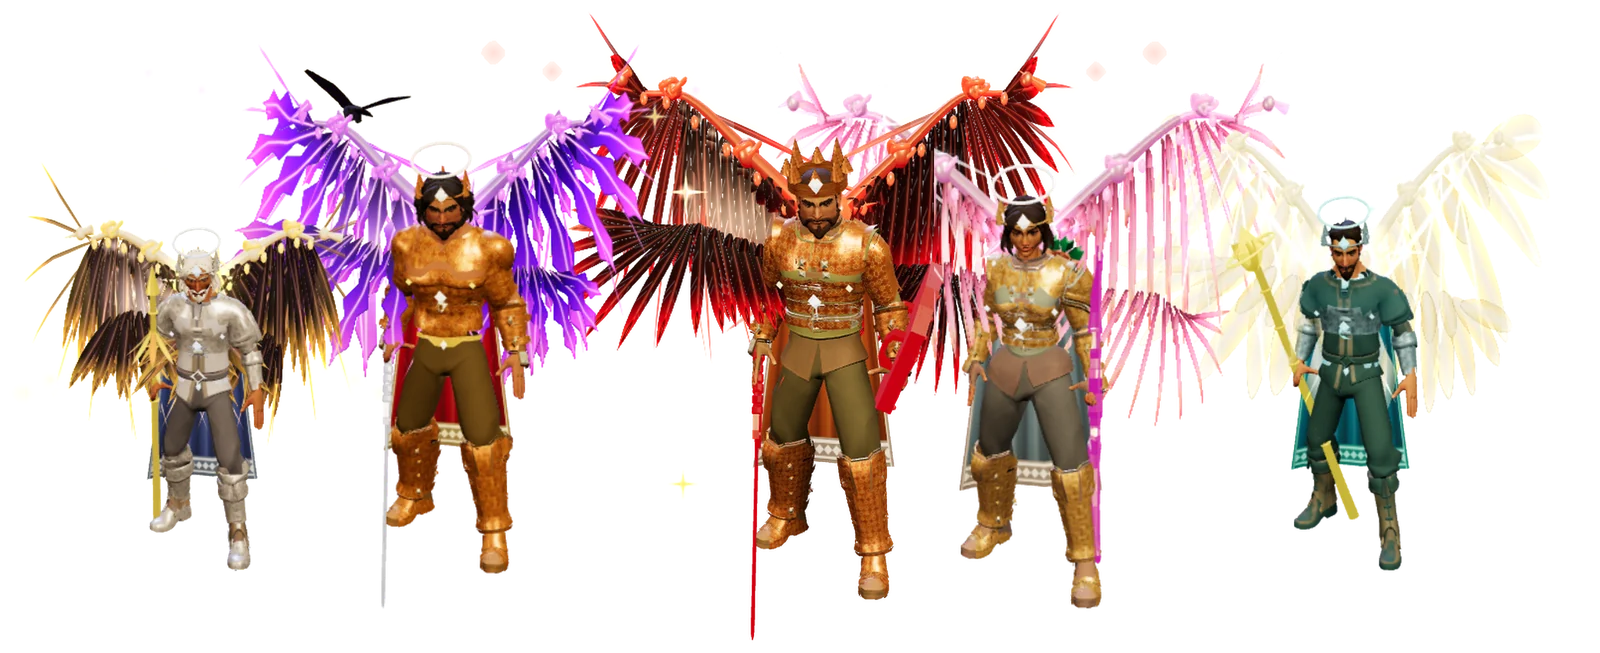
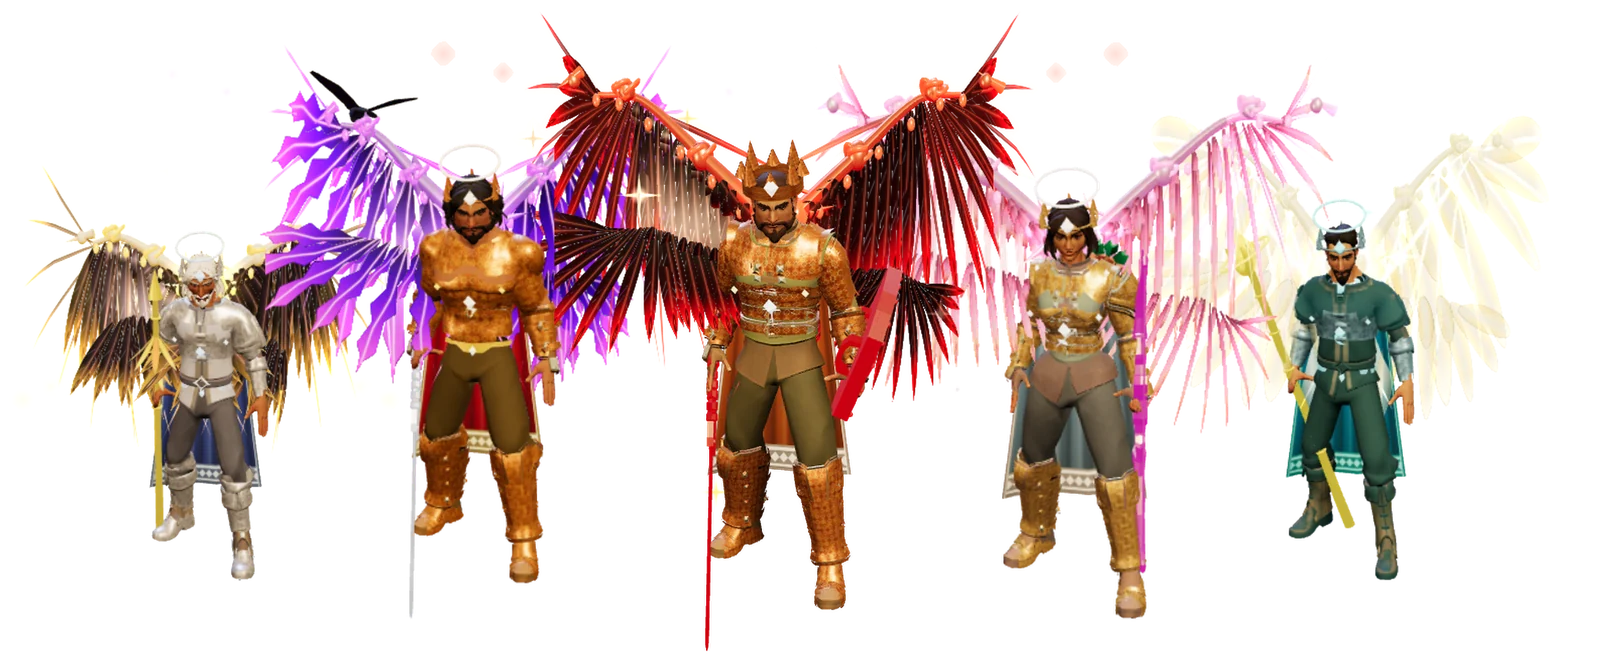
Web: cada capítulo con su propio color (en iPhone el fondo no se repintaba y quedaba un bloque de color sobre la figura), entradas más rápidas, portada con los cinco portadores parejos y más grandes, Jasy sin cortarse en el panel de mitología
Claude-Session: https://claude.ai/code/session_016ov4yr3yts6NKqEtADwHKy

diff --git a/public/index.html b/public/index.html
@@ -332,6 +332,20 @@ button{font-family:inherit}
 .plat{position:relative}.plat.mine{border-color:var(--gold)!important;box-shadow:0 0 0 1px var(--gold),0 10px 30px #0006}
 .mine-tag{position:absolute;top:-10px;left:14px;background:var(--gold);color:#1d1208;font-size:.72rem;font-weight:700;padding:2px 10px;border-radius:999px;z-index:2}
 .dock .btn{white-space:nowrap;font-size:clamp(.82rem,3.4vw,1rem)}
+
+/* ===== cada capítulo trae su propio color (no depende del fondo de la página, que en iPhone no siempre se repinta) y entra rápido, sin el bloque de color que tapaba la figura ===== */
+#ch-inicio{background:var(--c-inicio)}#ch-mitologia{background:var(--c-mitologia)}#ch-razas{background:var(--c-razas)}#ch-sets{background:var(--c-sets)}#ch-alas{background:var(--c-alas)}#ch-items{background:var(--c-items)}#ch-mapas{background:var(--c-mapas)}#ch-bestiario{background:var(--c-bestiario)}#ch-historia{background:var(--c-historia)}#ch-descargar{background:var(--c-descargar)}
+html{transition:background .35s ease}
+.ch .fig .ola{display:none!important}
+.ch .txt>*{transition:opacity .45s ease,transform .5s cubic-bezier(.2,.8,.2,1)}
+.ch.on .txt>:nth-child(1){transition-delay:0s}.ch.on .txt>:nth-child(2){transition-delay:.05s}.ch.on .txt>:nth-child(3){transition-delay:.1s}.ch.on .txt>:nth-child(4){transition-delay:.15s}.ch.on .txt>:nth-child(5){transition-delay:.2s}
+.ch .fig img{transform:translateY(18px) scale(.98);transition:opacity .5s .05s ease,transform .6s .05s cubic-bezier(.2,.8,.2,1)}
+.ch .fig .glow{transition:opacity .6s .1s ease}
+.ch .num{transition:transform .7s cubic-bezier(.2,.8,.2,1)}
+.ch.home .pan>:where(:not(.pfig):not(.go):not(.txt)),.ch.home .pan .txt>*{transition:opacity .45s ease,transform .5s cubic-bezier(.2,.8,.2,1)}
+.ch.home .pfig img{transition:opacity .5s .05s ease,transform .25s ease}
+/* la figura del panel de mitología no choca con el botón de la esquina ni con el borde de arriba */
+.pan.myth .pfig img{height:70%;top:57%}
 /* fichas interactivas de cada capítulo (razas, sets, alas, ítems, mapa, bestiario, historia, mitología) */
 /* mitología */
 .myth{display:grid;grid-template-columns:minmax(0,.95fr) minmax(0,1.05fr);gap:clamp(28px,5vw,64px);align-items:start}

diff --git a/web/shell_head.html b/web/shell_head.html
@@ -332,4 +332,18 @@ button{font-family:inherit}
 .plat{position:relative}.plat.mine{border-color:var(--gold)!important;box-shadow:0 0 0 1px var(--gold),0 10px 30px #0006}
 .mine-tag{position:absolute;top:-10px;left:14px;background:var(--gold);color:#1d1208;font-size:.72rem;font-weight:700;padding:2px 10px;border-radius:999px;z-index:2}
 .dock .btn{white-space:nowrap;font-size:clamp(.82rem,3.4vw,1rem)}
+
+/* ===== cada capítulo trae su propio color (no depende del fondo de la página, que en iPhone no siempre se repinta) y entra rápido, sin el bloque de color que tapaba la figura ===== */
+#ch-inicio{background:var(--c-inicio)}#ch-mitologia{background:var(--c-mitologia)}#ch-razas{background:var(--c-razas)}#ch-sets{background:var(--c-sets)}#ch-alas{background:var(--c-alas)}#ch-items{background:var(--c-items)}#ch-mapas{background:var(--c-mapas)}#ch-bestiario{background:var(--c-bestiario)}#ch-historia{background:var(--c-historia)}#ch-descargar{background:var(--c-descargar)}
+html{transition:background .35s ease}
+.ch .fig .ola{display:none!important}
+.ch .txt>*{transition:opacity .45s ease,transform .5s cubic-bezier(.2,.8,.2,1)}
+.ch.on .txt>:nth-child(1){transition-delay:0s}.ch.on .txt>:nth-child(2){transition-delay:.05s}.ch.on .txt>:nth-child(3){transition-delay:.1s}.ch.on .txt>:nth-child(4){transition-delay:.15s}.ch.on .txt>:nth-child(5){transition-delay:.2s}
+.ch .fig img{transform:translateY(18px) scale(.98);transition:opacity .5s .05s ease,transform .6s .05s cubic-bezier(.2,.8,.2,1)}
+.ch .fig .glow{transition:opacity .6s .1s ease}
+.ch .num{transition:transform .7s cubic-bezier(.2,.8,.2,1)}
+.ch.home .pan>:where(:not(.pfig):not(.go):not(.txt)),.ch.home .pan .txt>*{transition:opacity .45s ease,transform .5s cubic-bezier(.2,.8,.2,1)}
+.ch.home .pfig img{transition:opacity .5s .05s ease,transform .25s ease}
+/* la figura del panel de mitología no choca con el botón de la esquina ni con el borde de arriba */
+.pan.myth .pfig img{height:70%;top:57%}
 </style>

diff --git a/scripts/web/cutouts.py b/scripts/web/cutouts.py
@@ -87,14 +87,17 @@ for k,im in R.items():
 def body(im):
     """Columnas del cuerpo: el ancho ocupado en la franja de piernas y torso (las alas quedan más arriba)."""
     a=np.asarray(im.getchannel('A'))>60;h=a.shape[0]
-    cols=np.where(a[int(h*.62):int(h*.97)].mean(0)>.04)[0]
+    # piernas y pies: franja baja y densa, donde las puntas de las alas casi no llegan
+    cols=np.where(a[int(h*.8):int(h*.97)].mean(0)>.18)[0]
     return (int(cols[0]),int(cols[-1])+1) if len(cols) else (0,im.width)
 def lineup(order,H,scales,lift,name,gap=-.05,w=1600):
     """Fila en V: el del medio adelante, los demás más chicos y atrás. Primero se pegan todos enteros (alas incluidas),
        después solo los cuerpos encima, así las alas del vecino nunca tapan a un personaje."""
     ims=[fit(R[k],10**5,int(H*s)) for k,s in zip(order,scales)];n=len(ims)
     bs=[body(im) for im in ims];bw=[b[1]-b[0] for b in bs];cx=[0.0]
-    for i in range(1,n):cx.append(cx[-1]+bw[i-1]/2+bw[i]/2+max(bw)*gap)
+    # paso fijo según la altura: los cuerpos quedan parejos y separados; las alas se cruzan solo por detrás
+    step=H*(.36+gap*.5)
+    for i in range(1,n):cx.append(cx[-1]+step*(scales[i-1]+scales[i])/2)
     mid=(cx[0]+cx[-1])/2;xs=[int(c-mid-(b[0]+b[1])/2) for c,b in zip(cx,bs)]
     x0=min(xs);x1=max(x+im.width for x,im in zip(xs,ims));Hc=H+max(lift)
     c=canvas(x1-x0,Hc);pos=[(x-x0,Hc-im.height-l) for x,im,l in zip(xs,ims,lift)]
